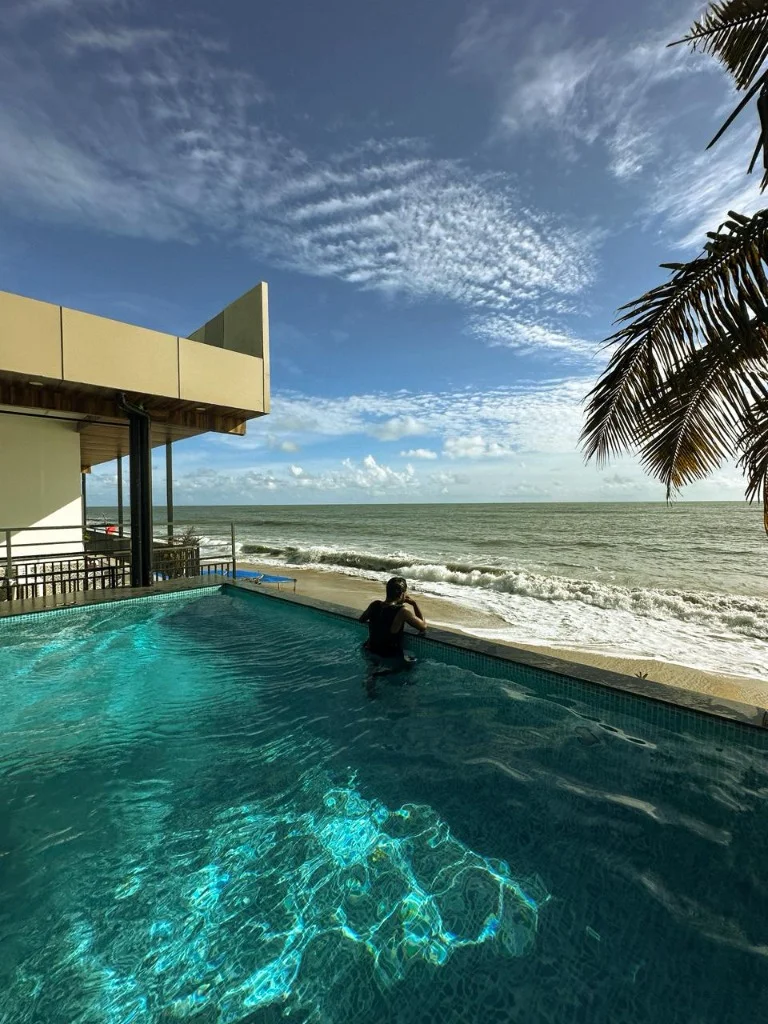
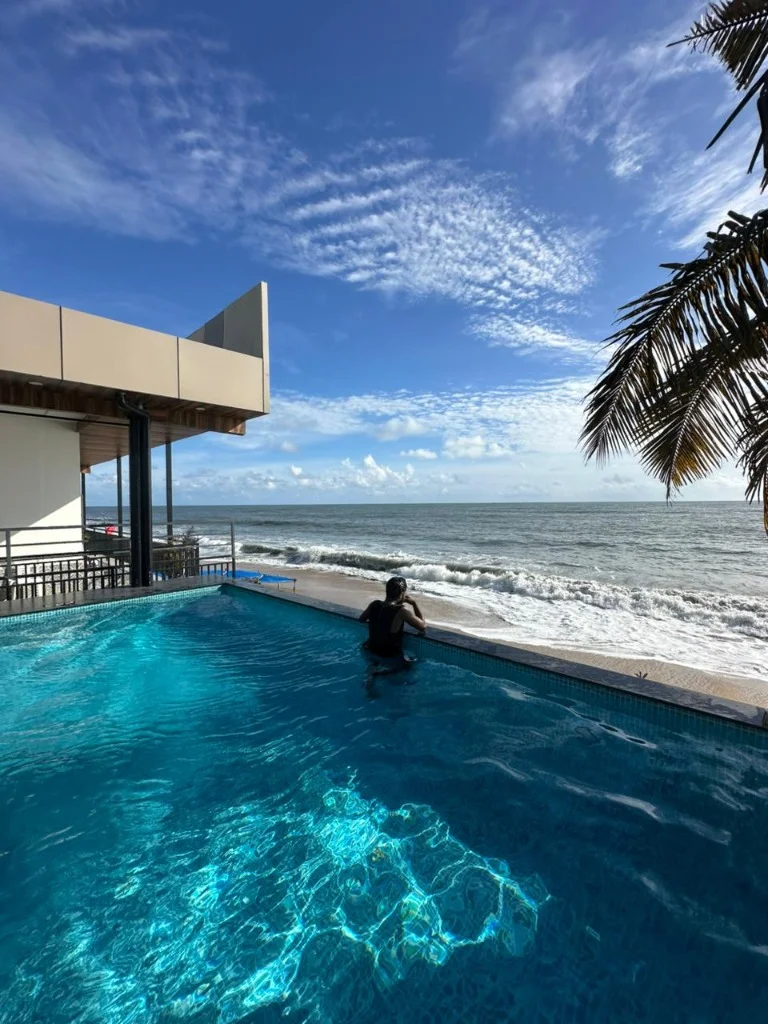
Replace gallery pool image with updated WebP image

diff --git a/index.html b/index.html
@@ -531,7 +531,7 @@
                     <p class="section-subtitle">Explore the stunning beauty of Rajav Resort through our curated gallery.</p>
                 </div>
                 <div class="gallery-grid">
-                    <div class="gallery-item"><img src="gallery-1.webp?v=2" alt="Cherai Beach View from Pool" class="pool-img" loading="lazy"></div>
+                    <div class="gallery-item"><img src="gallery-1.webp?v=3" alt="Cherai Beach View from Pool" class="pool-img" loading="lazy"></div>
                     <div class="gallery-item"><img src="gallery-4.webp?v=1" alt="Resort Room Setup" loading="lazy"></div>
                     <div class="gallery-item"><img src="gallery-3.webp?v=1" alt="Luxury Bathroom Jacuzzi" loading="lazy"></div>
                     <div class="gallery-item"><img src="gallery-2.webp?v=1" alt="Room Interior" loading="lazy"></div>
